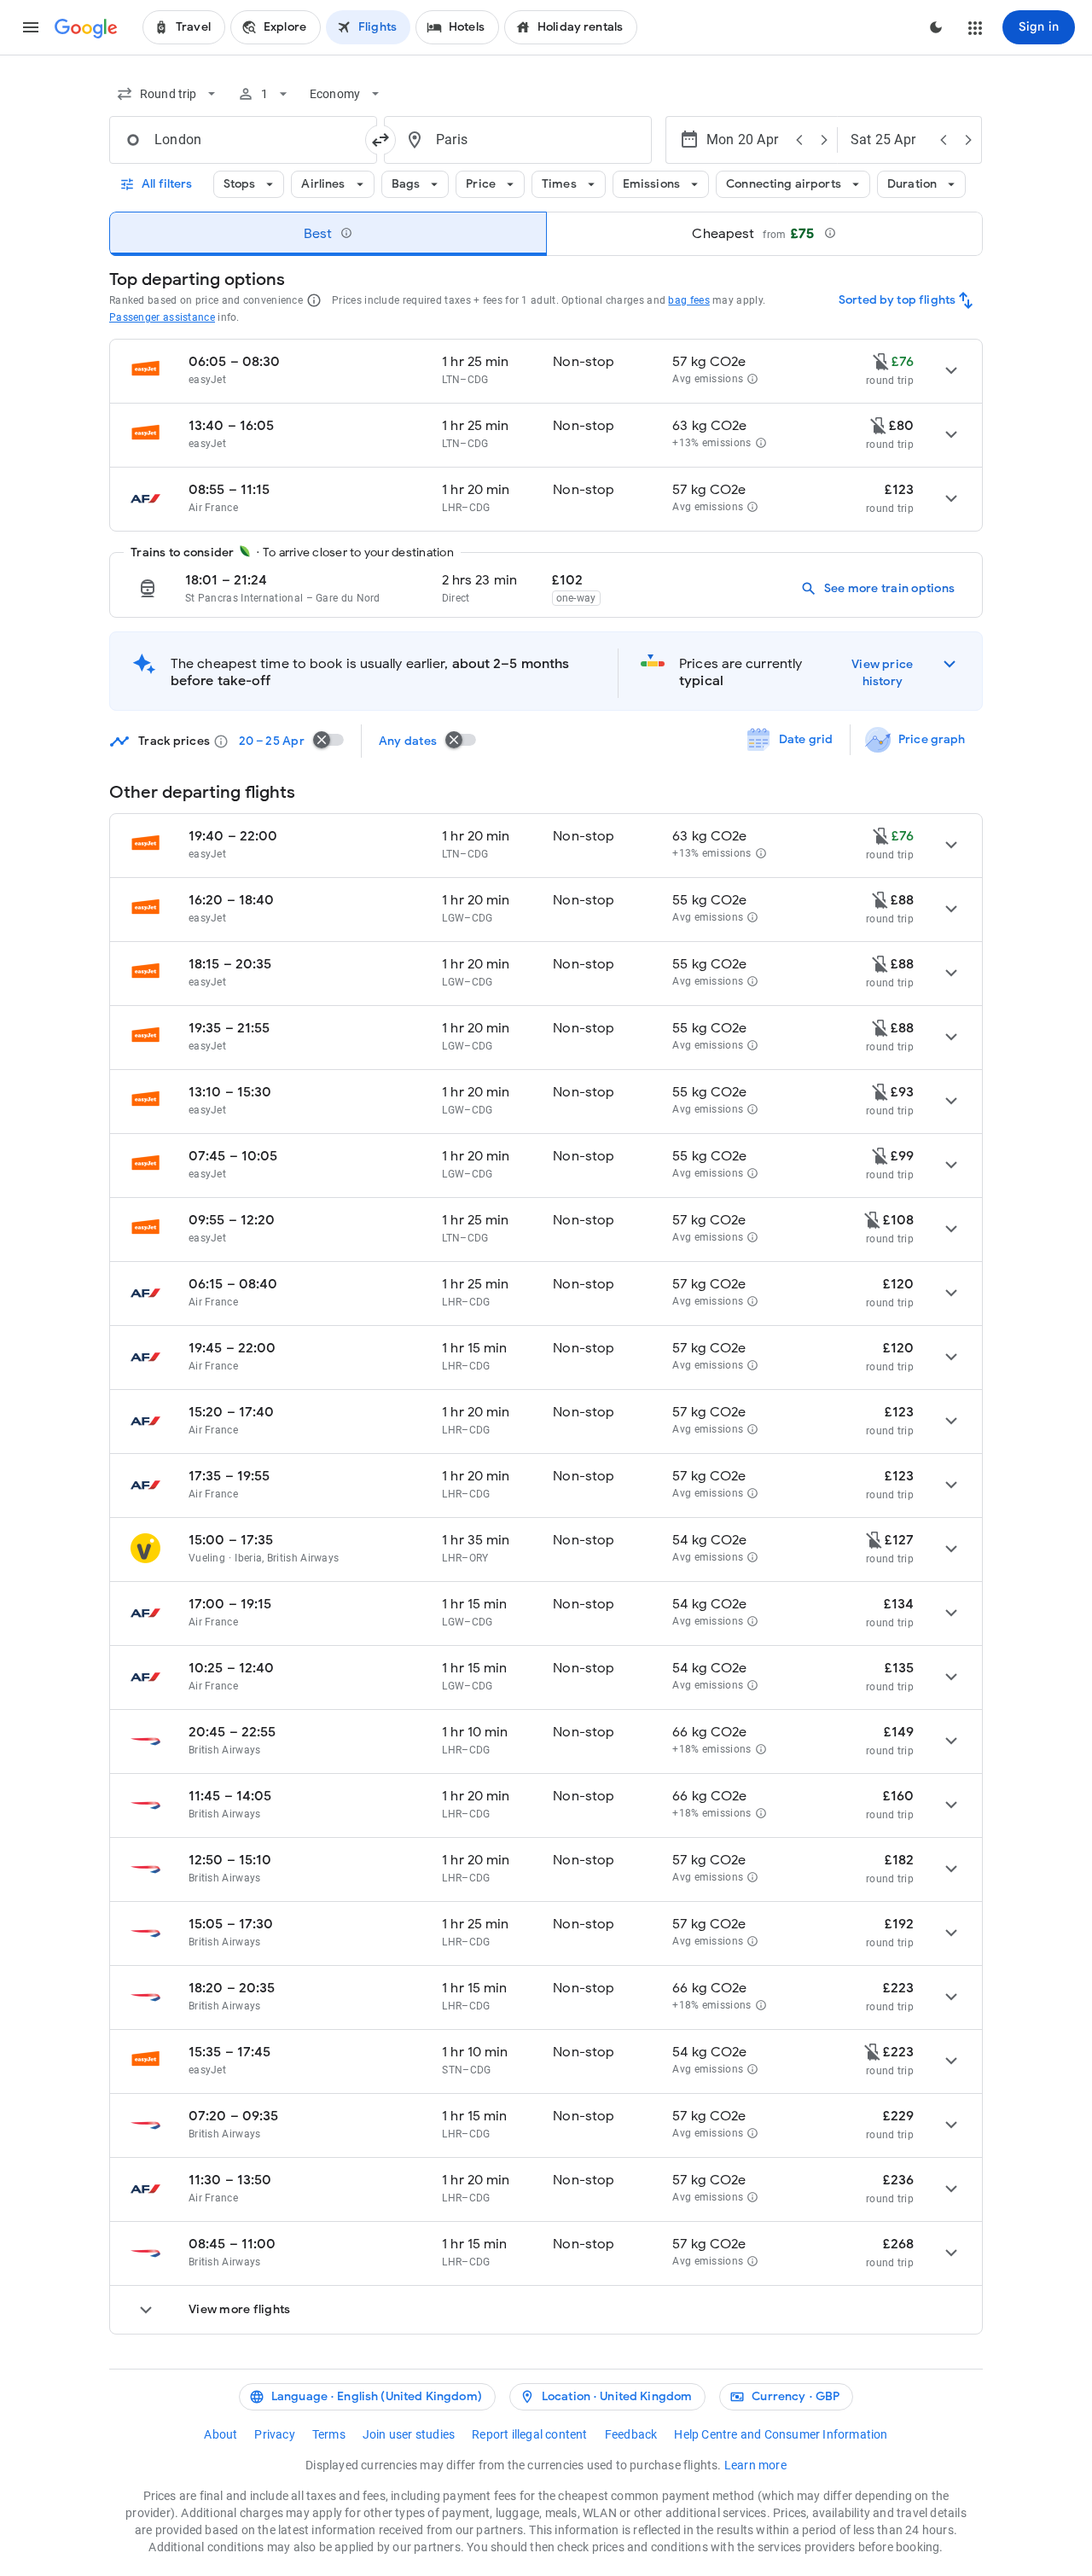
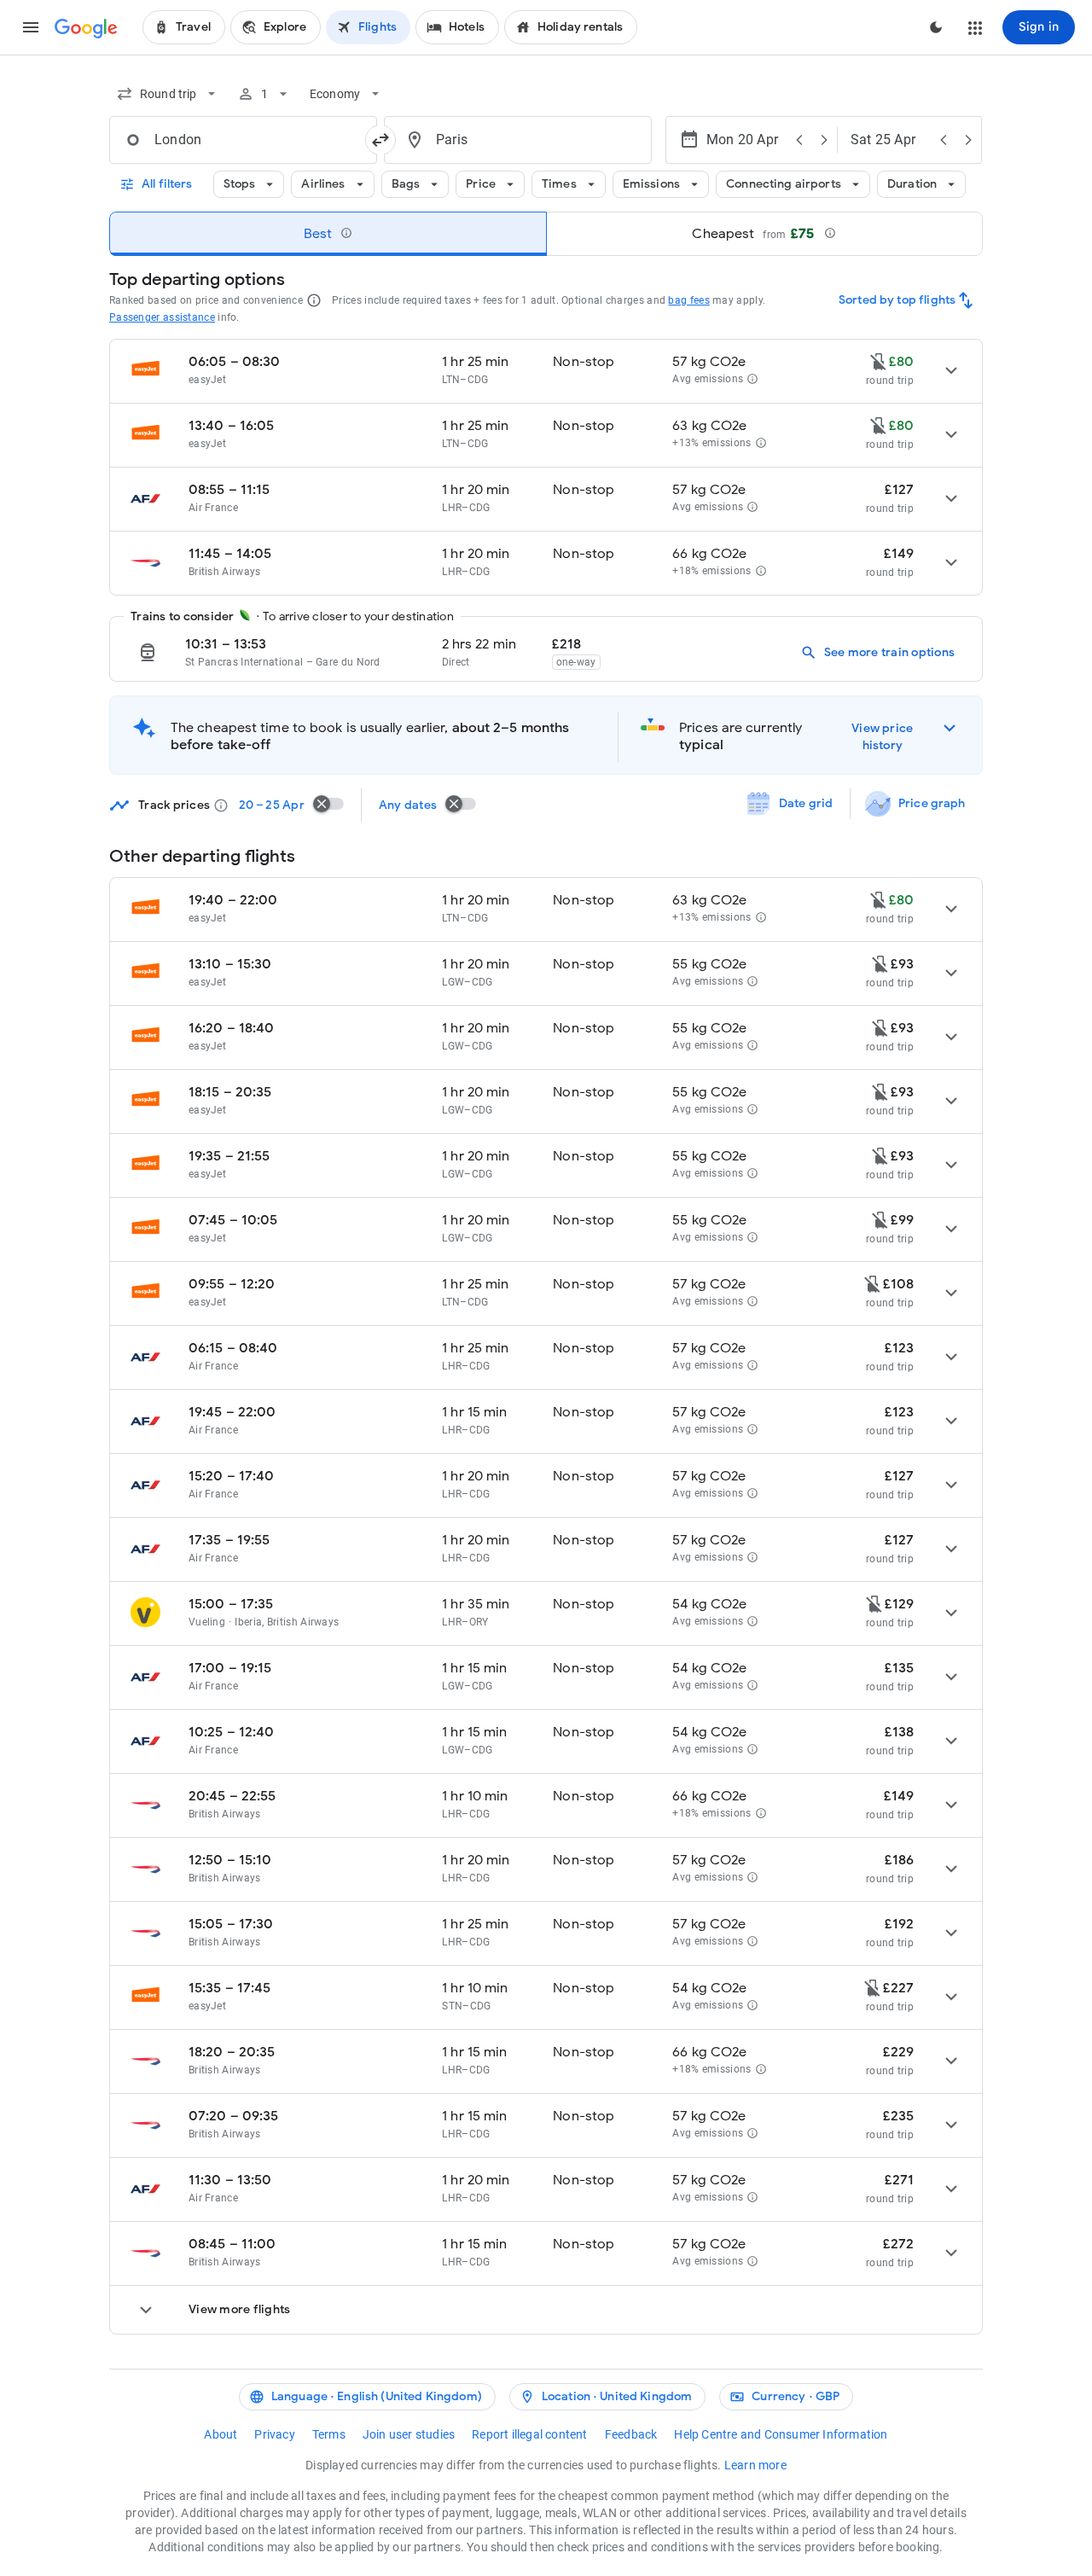
Stabilize flight search pipeline: fix past-date hallucination, anti-hallucination miner logic, and detailed result presentation

diff --git a/monitor/templates/wow_factor.html b/monitor/templates/wow_factor.html
@@ -348,6 +348,78 @@
                 opacity: 0;
             }
         }
+
+        /* Modal Styles */
+        .image-modal {
+            display: none;
+            position: fixed;
+            z-index: 2000;
+            padding-top: 50px;
+            left: 0;
+            top: 0;
+            width: 100%;
+            height: 100%;
+            overflow: auto;
+            background-color: rgba(0,0,0,0.9);
+            backdrop-filter: blur(15px);
+            animation: modalFadeIn 0.3s ease;
+        }
+
+        @keyframes modalFadeIn {
+            from { opacity: 0; }
+            to { opacity: 1; }
+        }
+
+        .image-modal-content {
+            margin: auto;
+            display: block;
+            max-width: 90%;
+            max-height: 85vh;
+            box-shadow: 0 0 50px rgba(0, 242, 255, 0.4);
+            border: 1px solid var(--accent-color);
+            border-radius: 12px;
+            object-fit: contain;
+        }
+
+        .image-modal-caption {
+            margin: auto;
+            display: block;
+            width: 80%;
+            max-width: 700px;
+            text-align: center;
+            color: var(--accent-color);
+            padding: 20px 0;
+            font-size: 1rem;
+            text-transform: uppercase;
+            letter-spacing: 2px;
+        }
+
+        .image-modal-close {
+            position: absolute;
+            top: 20px;
+            right: 40px;
+            color: #fff;
+            font-size: 50px;
+            font-weight: 200;
+            transition: 0.3s;
+            cursor: pointer;
+            z-index: 2010;
+        }
+
+        .image-modal-close:hover {
+            color: var(--accent-color);
+            transform: rotate(90deg);
+        }
+
+        #screenshot-view {
+            cursor: pointer;
+            transition: transform 0.3s ease;
+        }
+
+        #screenshot-view:hover {
+            transform: scale(1.02);
+            filter: brightness(1.2);
+        }
     </style>
 </head>
 
@@ -413,6 +485,13 @@
                 <div class="metric-label">Neural Latency</div>
             </div>
         </footer>
+    </div>
+
+    <!-- Image Modal -->
+    <div id="image-modal" class="image-modal">
+        <span class="image-modal-close">&times;</span>
+        <img class="image-modal-content" id="modal-img">
+        <div id="image-modal-caption" class="image-modal-caption">Direct Vision Stream</div>
     </div>
 
     <script>
@@ -689,6 +768,28 @@
             }
 
             updateGraph();
+        }
+
+        // --- Screenshot Modal Logic ---
+        const modal = document.getElementById("image-modal");
+        const modalImg = document.getElementById("modal-img");
+        const span = document.getElementsByClassName("image-modal-close")[0];
+
+        document.getElementById('screenshot-view').onclick = function() {
+            if (this.src && !this.src.endsWith('/')) {
+                modal.style.display = "block";
+                modalImg.src = this.src;
+            }
+        }
+
+        span.onclick = function() {
+            modal.style.display = "none";
+        }
+
+        modal.onclick = function(event) {
+            if (event.target === modal) {
+                modal.style.display = "none";
+            }
         }
 
         loadSessions();

diff --git a/tools/flights/search.go b/tools/flights/search.go
@@ -8,6 +8,7 @@ import (
 	"net/http"
 	"os"
 	"regexp"
+	"sort"
 	"strings"
 	"time"
 
@@ -30,8 +31,25 @@ func SearchFlights(opts SearchOptions) ([]FlightInfo, string, error) {
  
 // SearchFlightsWithScraper performs a synchronous scrape request to the Playwright service
 func SearchFlightsWithScraper(scraperURL string, opts SearchOptions) ([]FlightInfo, string, error) {
-	queryText := fmt.Sprintf("flights from %s to %s on %s return %s", opts.Departure, opts.Destination, opts.StartDate, opts.EndDate)
-	searchURL := fmt.Sprintf("https://www.google.com/travel/flights?q=%s&hl=%s&gl=%s&curr=%s", strings.ReplaceAll(queryText, " ", "+"), opts.Language, opts.Region, opts.Currency)
+	cabinQuery := ""
+	cabinParam := ""
+	cabinLower := strings.ToLower(opts.CabinClass)
+	
+	if strings.Contains(cabinLower, "business") {
+		cabinQuery = " business class"
+		cabinParam = "&tf=sc:b"
+	} else if strings.Contains(cabinLower, "premium") {
+		cabinQuery = " premium economy"
+		cabinParam = "&tf=sc:p"
+	} else if strings.Contains(cabinLower, "first") {
+		cabinQuery = " first class"
+		cabinParam = "&tf=sc:f"
+	}
+
+	log.Printf("🛂 Cabin selection: '%s' -> Query suffix: '%s', Param: '%s'", opts.CabinClass, cabinQuery, cabinParam)
+
+	queryText := fmt.Sprintf("flights from %s to %s on %s return %s%s", opts.Departure, opts.Destination, opts.StartDate, opts.EndDate, cabinQuery)
+	searchURL := fmt.Sprintf("https://www.google.com/travel/flights?q=%s&hl=%s&gl=%s&curr=%s%s", strings.ReplaceAll(queryText, " ", "+"), opts.Language, opts.Region, opts.Currency, cabinParam)
 	rootURL := fmt.Sprintf("https://www.google.com/travel/flights?hl=%s&gl=%s&curr=%s", opts.Language, opts.Region, opts.Currency)
 
 	tsConfig := fmt.Sprintf(`
@@ -119,14 +137,17 @@ func SearchFlightsWithScraper(scraperURL string, opts SearchOptions) ([]FlightIn
 	
 	// 3. Combine and de-duplicate
 	flightMap := make(map[string]FlightInfo)
+	genKey := func(f FlightInfo) string {
+		return strings.ToLower(fmt.Sprintf("%s-%s-%s", f.Airline, f.DepartureTime, f.Price))
+	}
+	
 	for _, f := range ocrFlights {
-		key := fmt.Sprintf("%s-%s", f.Airline, f.DepartureTime)
-		flightMap[key] = f
+		flightMap[genKey(f)] = f
 	}
 	for _, f := range minerFlights {
-		key := fmt.Sprintf("%s-%s", f.Airline, f.DepartureTime)
-		// Prefer Miner attributes if already present, as it's usually more accurate
-		flightMap[key] = f 
+		// Miner usually has better attributes but might miss time. 
+		// If it's a "close enough" match, we could merge, but for now just add.
+		flightMap[genKey(f)] = f 
 	}
 
 	var flights []FlightInfo
@@ -134,10 +155,21 @@ func SearchFlightsWithScraper(scraperURL string, opts SearchOptions) ([]FlightIn
 		flights = append(flights, f)
 	}
 
-	log.Printf("📊 Combined Results: %d (OCR: %d, Miner: %d)", len(flights), len(ocrFlights), len(minerFlights))
+	// 4. Sort by price (cheapest first)
+	sort.Slice(flights, func(i, j int) bool {
+		pi := parsePrice(flights[i].Price)
+		pj := parsePrice(flights[j].Price)
+		return pi < pj
+	})
 
+	log.Printf("📊 Combined & Sorted Results: %d (OCR: %d, Miner: %d)", len(flights), len(ocrFlights), len(minerFlights))
+
+	finalURL, _ := result["url"].(string)
 	for i := range flights {
 		flights[i].CabinClass = opts.CabinClass
+		if flights[i].URL == "" {
+			flights[i].URL = finalURL
+		}
 	}
 
 	return flights, screenshotPath, nil
@@ -173,7 +205,17 @@ func SearchFlightsNative(opts SearchOptions) ([]FlightInfo, string, error) {
 	page, err := context.NewPage()
 	if err != nil { return nil, "", fmt.Errorf("could not create page: %v", err) }
 
-	searchURL := fmt.Sprintf("https://www.google.com/travel/flights?q=flights+from+%s+to+%s+on+%s+return+%s&hl=en-US&gl=US&curr=EUR", opts.Departure, opts.Destination, opts.StartDate, opts.EndDate)
+	cabinQuery := ""
+	cabinLower := strings.ToLower(opts.CabinClass)
+	if strings.Contains(cabinLower, "business") {
+		cabinQuery = "+business+class"
+	} else if strings.Contains(cabinLower, "premium") {
+		cabinQuery = "+premium+economy"
+	} else if strings.Contains(cabinLower, "first") {
+		cabinQuery = "+first+class"
+	}
+
+	searchURL := fmt.Sprintf("https://www.google.com/travel/flights?q=flights+from+%s+to+%s+on+%s+return+%s%s&hl=%s&gl=%s&curr=%s", opts.Departure, opts.Destination, opts.StartDate, opts.EndDate, cabinQuery, opts.Language, opts.Region, opts.Currency)
 	log.Printf("Navigating to: %s", searchURL)
 	if _, err = page.Goto(searchURL, playwright.PageGotoOptions{WaitUntil: playwright.WaitUntilStateNetworkidle}); err != nil {
 		return nil, "", fmt.Errorf("could not navigate: %v", err)
@@ -235,6 +277,8 @@ func MinerExtractFlights(data string) ([]FlightInfo, error) {
 
 	prompt := fmt.Sprintf(`### IMPORTANT: You MUST return a VALID JSON ARRAY of FLAT OBJECTS.
 ### DO NOT use nested objects.
+### IF NO FLIGHTS ARE PHYSICALLY ON THE PAGE, RETURN AN EMPTY ARRAY '[]'.
+### DO NOT ever hallucinate flights or use placeholder data.
 ### FIELDS: airline, departure_time, arrival_time, duration, stops, price, departure_airport, arrival_airport
 
 Return a JSON array of objects with these fields ONLY:
@@ -386,4 +430,16 @@ Final JSON array:`, snippet)
 	}
 
 	return flights, nil
+}
+
+func parsePrice(priceStr string) float64 {
+	priceStr = strings.ReplaceAll(priceStr, ",", "")
+	re := regexp.MustCompile(`[\d.]+`)
+	match := re.FindString(priceStr)
+	if match == "" {
+		return 999999
+	}
+	var p float64
+	fmt.Sscanf(match, "%f", &p)
+	return p
 }

diff --git a/tools/flights/main.go b/tools/flights/main.go
@@ -10,7 +10,9 @@ import (
 	"net/http"
 	"os"
 	"regexp"
+	"strconv"
 	"strings"
+	"time"
 
 	"github.com/mark3labs/mcp-go/mcp"
 	"github.com/mark3labs/mcp-go/server"
@@ -46,7 +48,7 @@ func main() {
 		mcp.WithString("destination", mcp.Required(), mcp.Description("Destination airport code (e.g., CDG, LHR)")),
 		mcp.WithString("start_date", mcp.Required(), mcp.Description("Departure date (YYYY-MM-DD)")),
 		mcp.WithString("end_date", mcp.Required(), mcp.Description("Return date (YYYY-MM-DD)")),
-		mcp.WithString("cabin", mcp.Description("Cabin class (Economy, Business, First, Premium Economy). Default: Economy")),
+		mcp.WithString("cabin", mcp.Description("The travel class. Defaults to Economy. Only change if the user specifically requests a different class.")),
 	), searchFlightsHandler)
 
 	if *transportType == "sse" {
@@ -126,11 +128,48 @@ func searchFlightsHandler(ctx context.Context, request mcp.CallToolRequest) (*mc
 	// HEURISTIC: Broaden search for multi-airport cities if specific major ones are used
 	// This helps find easyJet/Ryanair results from alternative airports (LTN, LGW, etc)
 	cityMappings := map[string]string{
+		"LONDON": "LON", "PARIS": "PAR", "NEW YORK": "NYC", "NYC": "NYC",
 		"LHR": "LON", "LGW": "LON", "LTN": "LON", "STN": "LON", "LCY": "LON",
 		"CDG": "PAR", "ORY": "PAR", "BVA": "PAR",
 		"EWR": "NYC", "JFK": "NYC", "LGA": "NYC",
 	}
+
+	// 1. Resolve full names to codes using mapping
+	if code, ok := cityMappings[strings.ToUpper(opts.Departure)]; ok {
+		opts.Departure = code
+	}
+	if code, ok := cityMappings[strings.ToUpper(opts.Destination)]; ok {
+		opts.Destination = code
+	}
+
+	// 2. If still not a 3-letter code, use LLM to resolve (e.g. "San Francisco" -> "SFO")
+	iataRegex := regexp.MustCompile(`^[A-Z]{3}$`)
+	if !iataRegex.MatchString(strings.ToUpper(opts.Departure)) || !iataRegex.MatchString(strings.ToUpper(opts.Destination)) {
+		log.Printf("🏙 Resolving vague city names via NLP: %s -> %s", opts.Departure, opts.Destination)
+		q := fmt.Sprintf("flight from %s to %s", opts.Departure, opts.Destination)
+		extracted, err := ExtractOptionsFromQuery(q)
+		if err == nil {
+			if iataRegex.MatchString(extracted.Departure) { opts.Departure = extracted.Departure }
+			if iataRegex.MatchString(extracted.Destination) { opts.Destination = extracted.Destination }
+		}
+	}
+
+	// 3. Past Date Prevention: If year is in the past, bump to current year
+	currentYear := time.Now().Year()
+	dateFix := func(d string) string {
+		if len(d) >= 4 {
+			y, _ := strconv.Atoi(d[:4])
+			if y < currentYear {
+				log.Printf("📅 Correcting past year: %s -> %d%s", d, currentYear, d[4:])
+				return fmt.Sprintf("%d%s", currentYear, d[4:])
+			}
+		}
+		return d
+	}
+	opts.StartDate = dateFix(opts.StartDate)
+	opts.EndDate = dateFix(opts.EndDate)
 	
+	// 4. Final broadening (e.g. LHR -> LON)
 	origDep, origDest := opts.Departure, opts.Destination
 	if city, ok := cityMappings[strings.ToUpper(opts.Departure)]; ok {
 		opts.Departure = city
@@ -205,13 +244,14 @@ func searchFlightsHandler(ctx context.Context, request mcp.CallToolRequest) (*mc
 	// Generate structured JSON for the reasoning engine
 	jsonData, _ := json.MarshalIndent(flights, "", "  ")
 
-	// Generate a summary for the chat response
+	// Generate a clean summary for the chat response
 	var sb strings.Builder
-	sb.WriteString(fmt.Sprintf("Found %d flight options from %s to %s on %s. (Luton/Gatwick/Heathrow are included in LON group)\n", len(flights), opts.Departure, opts.Destination, opts.StartDate))
+	sb.WriteString(fmt.Sprintf("Found %d flight options from %s to %s on %s.\n\n", len(flights), opts.Departure, opts.Destination, opts.StartDate))
+	sb.WriteString("Recommended Options:\n")
 	for i, f := range flights {
-		sb.WriteString(fmt.Sprintf("[%d] %s: %s (%s to %s, %s, %s)\n", i+1, f.Airline, f.Price, f.DepartureAirport, f.ArrivalAirport, f.Duration, f.Stops))
-		if i == 4 { // Only show top 5 in text summary to keep it clean
-			sb.WriteString("... [truncated, see JSON for full list]\n")
+		sb.WriteString(fmt.Sprintf("• %s: %s (Dep: %s, Arr: %s) - %s to %s\n", f.Airline, f.Price, f.DepartureTime, f.ArrivalTime, f.DepartureAirport, f.ArrivalAirport))
+		if i == 5 { // Show top 6 in text summary
+			sb.WriteString("\n... [Additional options available in DATA_JSON]")
 			break
 		}
 	}

diff --git a/tools/flights/ocr.go b/tools/flights/ocr.go
@@ -65,7 +65,14 @@ func ParseFlightText(text string) []FlightInfo {
 				l := lines[j]
 				if pm := priceRegex.FindStringSubmatch(l); len(pm) > 0 && flight.Price == "Unknown" {
 					symbol := pm[1]
-					flight.Price = symbol + strings.ReplaceAll(strings.ReplaceAll(pm[2], ",", ""), ".", "")
+					// Remove commas (thousands separators) but keep dots (decimal separators)
+					val := strings.ReplaceAll(pm[2], ",", "")
+					// CRITICAL: Prevent OCR hallucinations of massive prices
+					if len(val) > 4 { 
+						log.Printf("⚠ Filtering suspicious price: %s", val)
+						continue 
+					}
+					flight.Price = symbol + val
 				}
 				if dm := durationRegex.FindStringSubmatch(l); len(dm) > 0 && flight.Duration == "Unknown" {
 					flight.Duration = dm[0]
@@ -88,7 +95,7 @@ func ParseFlightText(text string) []FlightInfo {
 
 			if flight.Price != "Unknown" {
 				flights = append(flights, flight)
-				log.Printf("✅ Found Flight: %s %s at %s", flight.Airline, flight.Price, flight.DepartureTime)
+				log.Printf("✅ Found Flight: %s %s at %s (%s to %s)", flight.Airline, flight.Price, flight.DepartureTime, flight.DepartureAirport, flight.ArrivalAirport)
 			}
 		}
 	}

diff --git a/hdn/mcp_knowledge_server.go b/hdn/mcp_knowledge_server.go
@@ -178,6 +178,13 @@ func (s *MCPKnowledgeServer) GetAllPromptHints() map[string]*PromptHintsConfig {
 		ForceToolCall: true,
 		AlwaysInclude: []string{"nemoclaw"},
 	}
+
+	// Add hints for search_flights
+	hints["search_flights"] = &PromptHintsConfig{
+		Keywords:      []string{"flight", "airline", "CDG", "LHR", "JFK", "airport"},
+		PromptText:    "✅ FOR FLIGHT RESULTS: When presenting results, ALWAYS list at least the top 5 cheapest options with their specific times and airlines. Use a bulleted list. Do NOT just summarize with a range.",
+		ForceToolCall: false,
+	}
 	return hints
 }
 

diff --git a/tools/flights/nlp.go b/tools/flights/nlp.go
@@ -20,7 +20,7 @@ Return a JSON object with these fields ONLY:
 - destination (airport code, e.g. "CDG")
 - start_date (YYYY-MM-DD)
 - end_date (YYYY-MM-DD)
-- cabin (e.g. "Economy")
+- cabin (Default to "Economy". ONLY use "Business" or "First" if specifically requested in the input text.)
 
 IMPORTANT: The current year is %d. If no year is specified in the query, you MUST use %d.
 ONLY return JSON.`, query, currentYear, currentYear)

diff --git a/tools/flights/utils.go b/tools/flights/utils.go
@@ -20,7 +20,7 @@ func getScreenshotPath() string {
 	path := os.Getenv("SCREENSHOT_PATH")
 	if path == "" {
 		// Fallback to local directory if not specified
-		return "remote_flight_screenshot.png"
+		return "artifacts/latest_screenshot.png"
 	}
 	return path
 }
